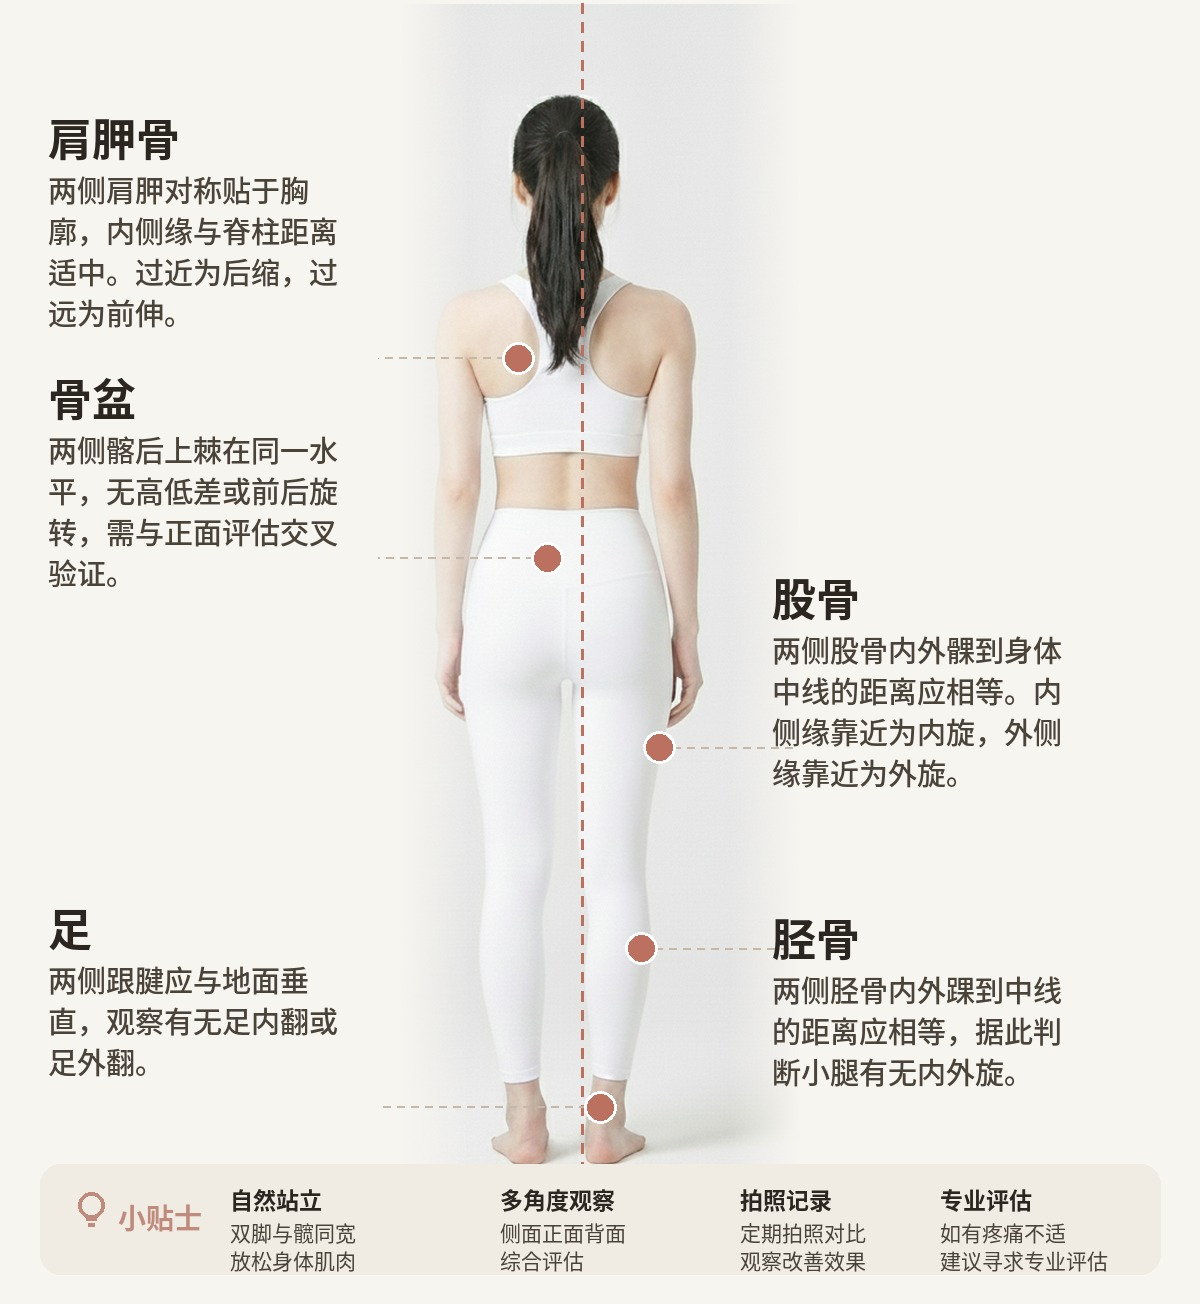
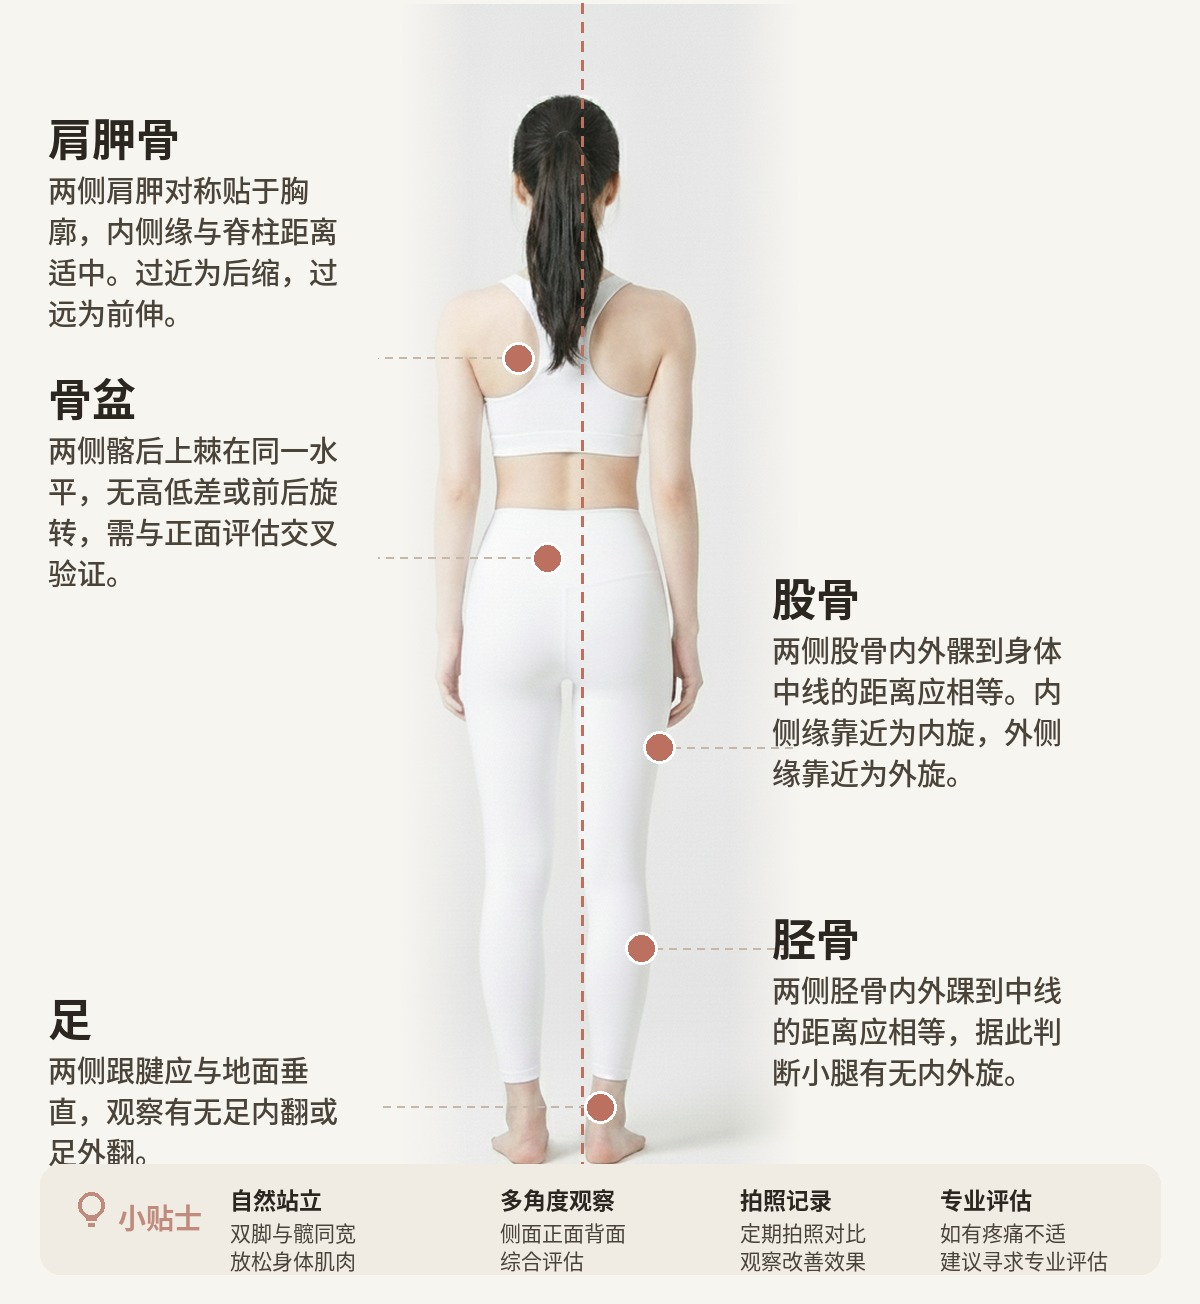
背面：足卡片下移
Claude-Session: https://claude.ai/code/session_01Nkdaws1GkKoqKvowGcGT1f

Changed region(s): [[0.0308, 0.7055, 0.2775, 0.8896]]

diff --git a/backend/tools/make_pose_posters.py b/backend/tools/make_pose_posters.py
@@ -236,7 +236,7 @@ if __name__ == "__main__":
     # ===== 背面 =====
     head_y.clear()
     head_y.update({
-        ("L","scapula"):300, ("L","pelvis"):560, ("L","foot"):1090,
+        ("L","scapula"):300, ("L","pelvis"):560, ("L","foot"):1180,
         ("R","femur"):760, ("R","tibia"):1100,
     })
     build(
